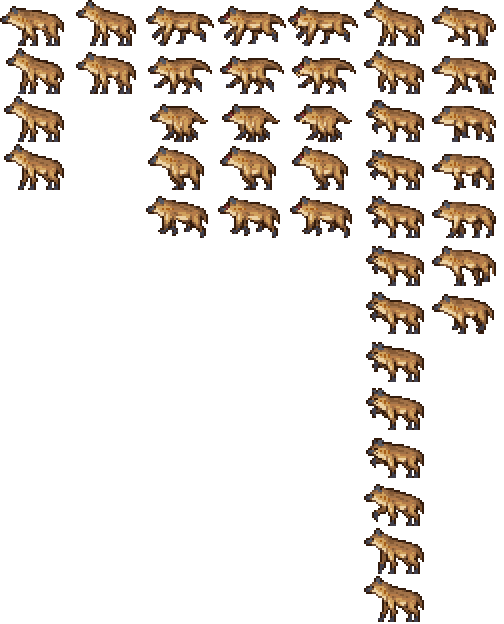
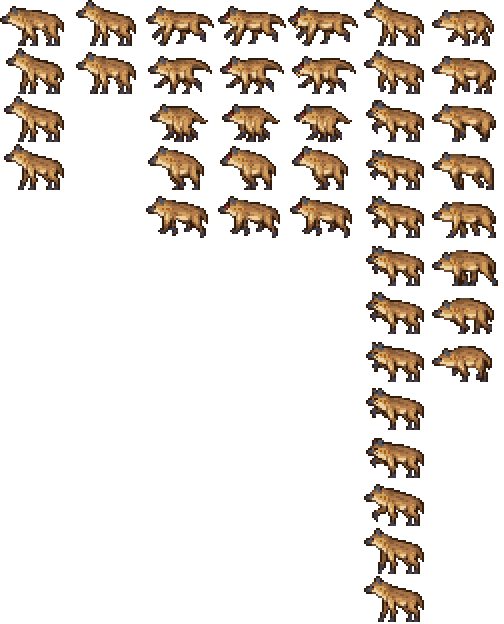
Update Hyena walk animation

Changed region(s): [[0.8631, 0.0, 1.0, 0.609]]

diff --git a/Content/Savanna/NPCs/Hyena/Hyena.cs b/Content/Savanna/NPCs/Hyena/Hyena.cs
@@ -25,7 +25,7 @@ public class Hyena : ModNPC
 		Walking
 	}
 
-	private static readonly int[] endFrames = [4, 2, 5, 5, 5, 13, 7];
+	private static readonly int[] endFrames = [4, 2, 5, 5, 5, 13, 8];
 	private const int drownTimeMax = 300;
 
 	private bool OnTransitionFrame => (int)NPC.frameCounter >= endFrames[AnimationState]; //Used to determine whether an animation is complete and can be looped or exited
